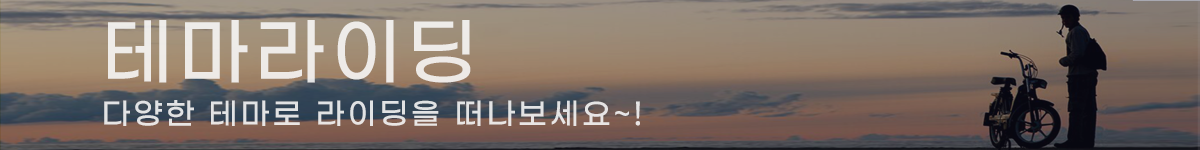
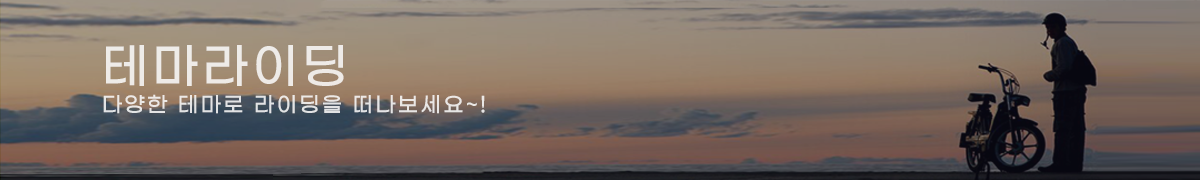
tnwjd

diff --git a/VSCode/bob/src/static/scss/Theme/themeriding.scss b/VSCode/bob/src/static/scss/Theme/themeriding.scss
@@ -28,7 +28,7 @@
     background-size: cover;
     background-repeat: no-repeat;
     background-position: center;
-    height: 150px;
+    height: 180px;
     font-size: 3em; /* 제목의 글자 크기 */
     font-weight: bold; /* 제목 글자를 굵게 표시 */
     text-shadow: 5px 5px 8px rgba(0,0,0,0.8);

diff --git a/VSCode/bob/src/pages/Theme/Riding.js b/VSCode/bob/src/pages/Theme/Riding.js
@@ -97,7 +97,6 @@ useEffect(() => {
   return (
     <div className="riding-container">
       {/* 페이지 메인 제목 */}
-      <h1 className="riding-title"></h1>
 
       {/* 사진 박스 3개 컨테이너 */}
       <div className='riding-title'></div>
